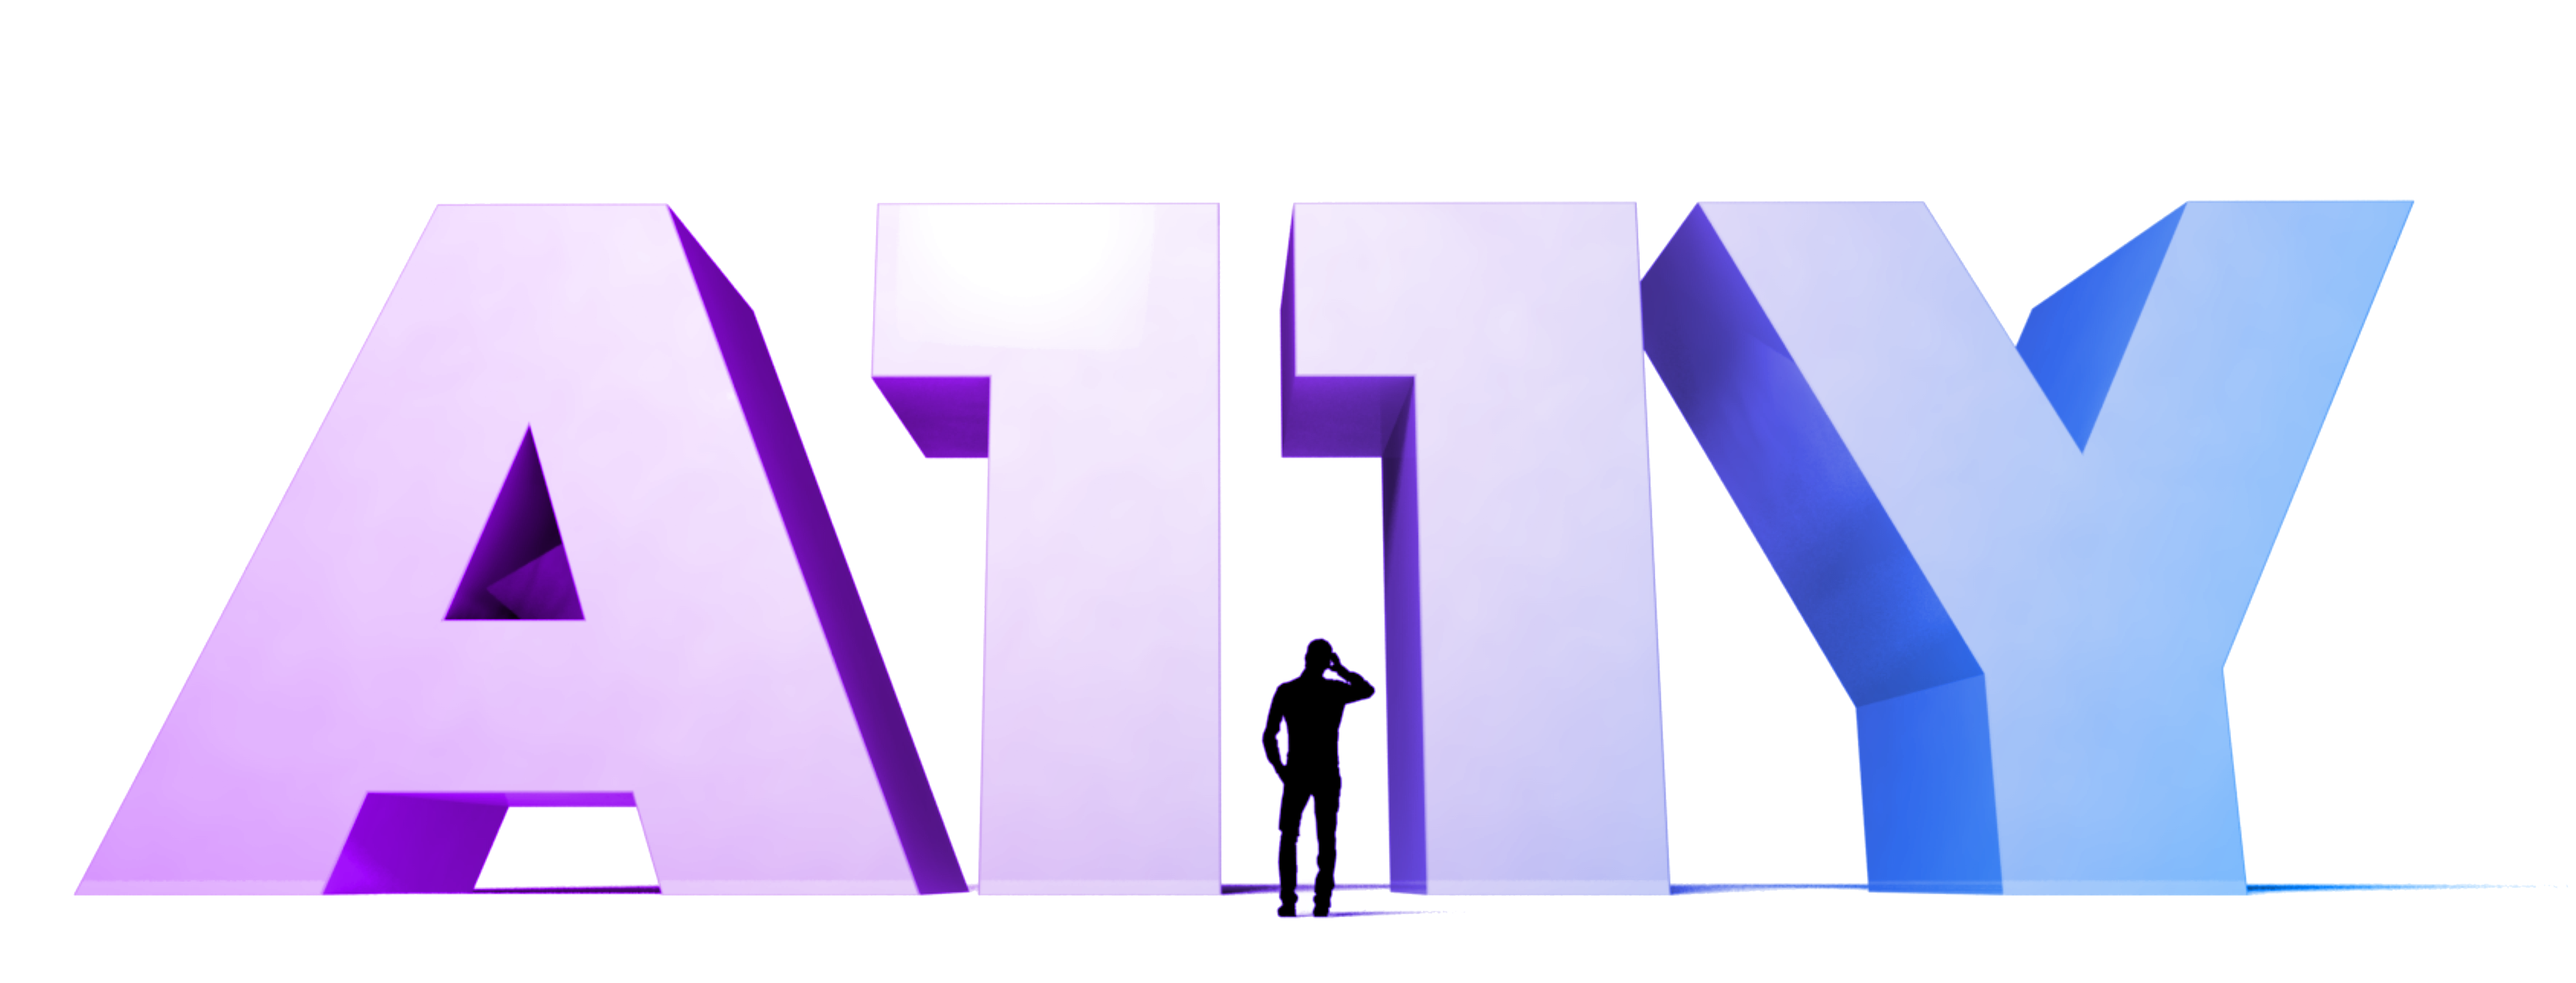
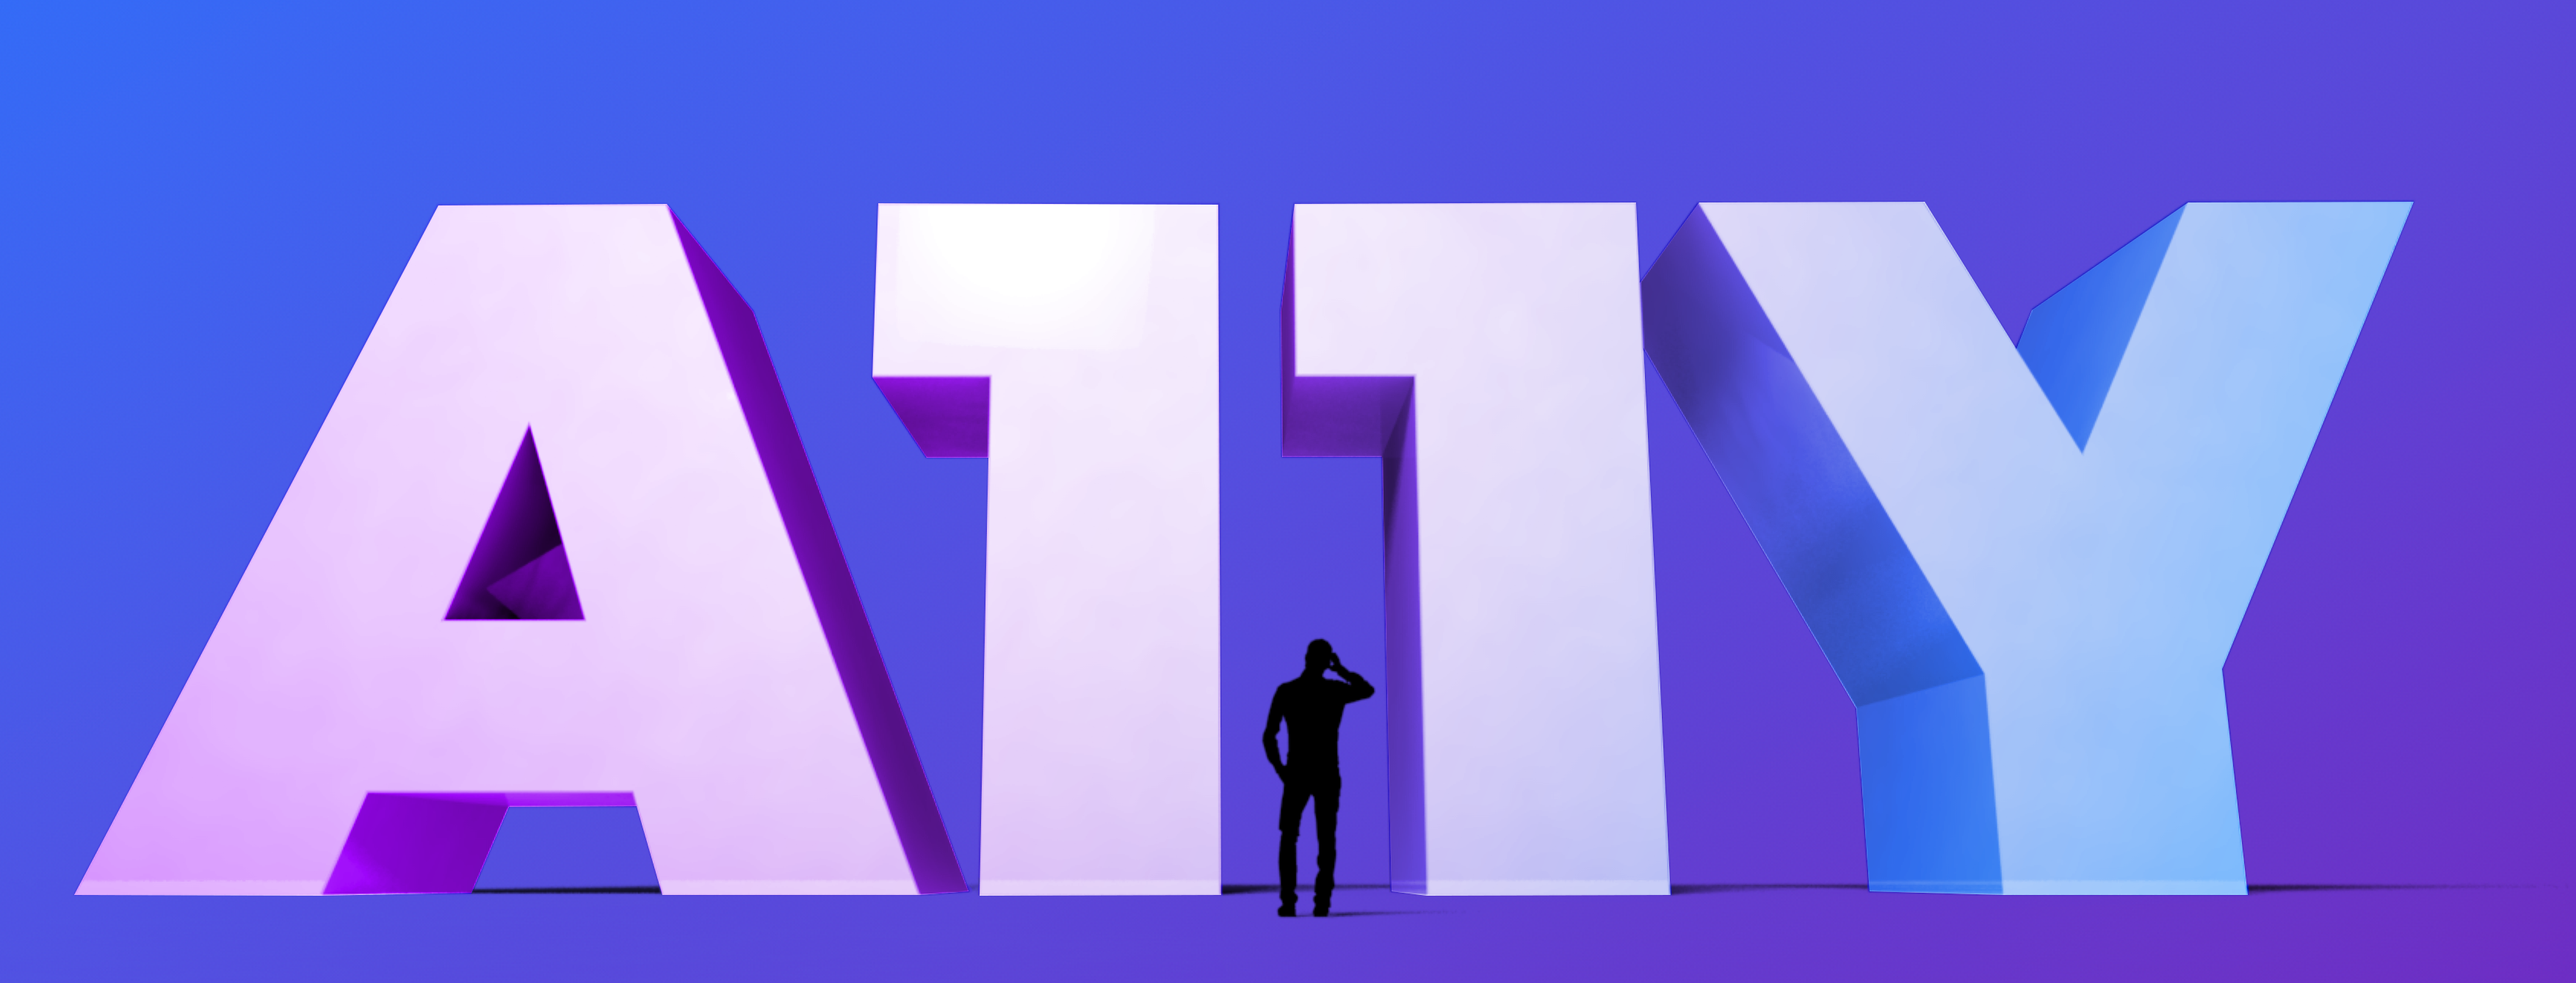
updates header image, removes children prop type for layout

diff --git a/src/pages/articles/accessibility-part-one-defaults.js b/src/pages/articles/accessibility-part-one-defaults.js
@@ -14,13 +14,14 @@ import GridImage from '../../../static/grid.svg'
 import CircleImage from '../../../static/primitive-circle-purple.svg'
 import CircleImageSm from '../../../static/primitive-circle-small-purple.svg'
 import TriangleImage from '../../../static/primitive-triangle-purple.svg'
+import HeaderImage from '../../assets/images/articles/a11y-pt1/header.png'
 import { StaticImage } from "gatsby-plugin-image"
 import TwitterIcon from '../../components/svgs/TwitterIcon'
 import FacebookIcon from '../../components/svgs/FacebookIcon'
 import LinkedInIcon from '../../components/svgs/LinkedInIcon'
 import Layout from '../../layouts/index';
 import useSiteMetadata from '../../components/hooks/use-site-metadata';
-import { motion } from 'framer-motion'
+import { motion, useTransform, useViewportScroll, useMotionValue } from 'framer-motion'
 
 const AccessibilityPartOne = ({ location }) => {
   const { siteURL } = useSiteMetadata();
@@ -28,6 +29,12 @@ const AccessibilityPartOne = ({ location }) => {
   const facebookShareURL = `https://www.facebook.com/sharer/sharer.php?u=${fullURL}`;
   const twitterShareURL = `https://twitter.com/intent/tweet/?text=${encodeURI('Accessibility Talk Pt. 1: Defaults')}&url=${fullURL}`;
   const linkedInShareURL = `https://www.linkedin.com/sharing/share-offsite/?url=${fullURL}`;
+
+  // const { scrollY } = useViewportScroll();
+  // const rotation = useTransform(scrollY, [0, 300], [0, 15]);
+  // const gradientStart = useTransform(scrollY, [0, 400], ['#336CF8','#6F2CC3']);
+
+  // 'linear-gradient(151deg, #336CF8 0%, #6F2CC3 100%)'
 
   const socialHover = {
     scale: 1.2,
@@ -42,17 +49,39 @@ const AccessibilityPartOne = ({ location }) => {
       <Helmet>
         <html className="secondarypage"/>
         <meta property='og:title' content='Accessibility Talk Pt 1: Defaults'/>
-        {/* <meta property='og:image' content=''/> */}
+        <meta property='og:image' content={`${siteURL}${HeaderImage}`}/>
         <meta property='og:description' content='Most organizations are still figuring out the best way to approach accessibility design, so we reached out to accessibility expert Thomas Logan for advice on how to create a delightful experience for users with disabilities.'/>
         <meta property='og:url' content={fullURL}/>
       </Helmet>
       <ContentContainer>
         <Grid>
           <Title>Accessibility Talk Pt 1: Defaults</Title>
-          <HeroImage>
+          <HeroImage
+            // style={{ backgroundImage: `linear-gradient(151deg, ${gradientStart} 0%, #4A178A 100%)` }}
+            // 'linear-gradient(151deg, #336CF8 0%, #6F2CC3 100%)'
+          >
+            {/* <SvgContainer viewBox="0 0 797 320" xmlns="http://www.w3.org/2000/svg">
+              <motion.linearGradient
+                id="myGradient"
+              >
+                <motion.stop offset="5%" stop-color={gradientStart} />
+                <stop offset="95%" stop-color="#6F2CC3" />
+              </motion.linearGradient>
+              <motion.rect
+                x="0"
+                y="0"
+                stroke-width="0"
+                strokeLinejoin="round"
+                width="797"
+                height="320"
+                fill="url(#myGradient)"
+              />
+            </SvgContainer> */}
             <StaticImage
               src="../../assets/images/articles/a11y-pt1/header.png"
               alt="A11Y written in block letters"
+              width={700}
+              layout="constrained"
               loading="eager"
               placeholder="none"
             />
@@ -400,13 +429,29 @@ const AboutLink = styled.a`
     margin-left: 1em;
   `}
 `
-
-const HeroImage = styled.div`
+const SvgContainer = styled(motion.svg)`
+  position: absolute;
+  width: 100%;
+  height: 100%;
+  max-width: 797px;
+  max-height: 320px;
+` 
+const HeroImage = styled(motion.div)`
+  // position: relative;
+  // top: 0;
+  // left: 0;
   border-radius: 25px;
-  // height: 310px;
-  // background-image: ${Color.GradientDark};
+  overflow: hidden;
+  width: 100%;
+  display: flex;
+  justify-content: center;
+  align-items: center;
+  height: 320px;
+  // margin: 0 auto;
+  text-align: center;
+  background-image: ${Color.GradientDark};
   & .gatsby-image-wrapper img {
-    mix-blend-mode: multiple;
+    mix-blend-mode: luminosity;
   }
   ${breakpoint.for_phone_only`
     grid-column: span 12;

diff --git a/src/layouts/index.js b/src/layouts/index.js
@@ -5,7 +5,7 @@ import Helmet from 'react-helmet'
 import styled from 'styled-components'
 import './index.css'
 
-const Layout = ({ children }) => (
+const Layout = (props) => (
   <div>
     <Helmet
       title="Mohr Design"
@@ -23,13 +23,13 @@ const Layout = ({ children }) => (
       <html lang="en" />
       <script src="/modernizr.js" type="text/javascript" />
     </Helmet>
-    {children}
+    {props.children}
   </div>
 )
 
-Layout.propTypes = {
-  children: PropTypes.func,
-}
+// Layout.propTypes = {
+//   children: PropTypes.func,
+// }
 
 const HeaderContainer = styled.div`
   background: lightgray;
